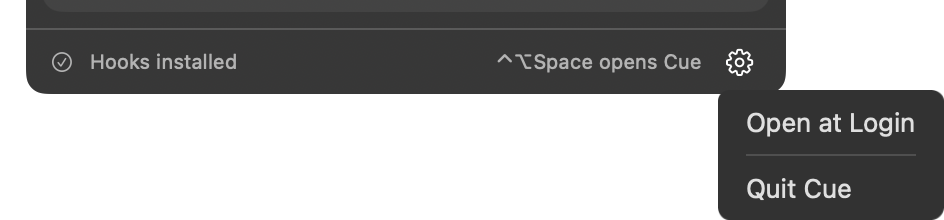
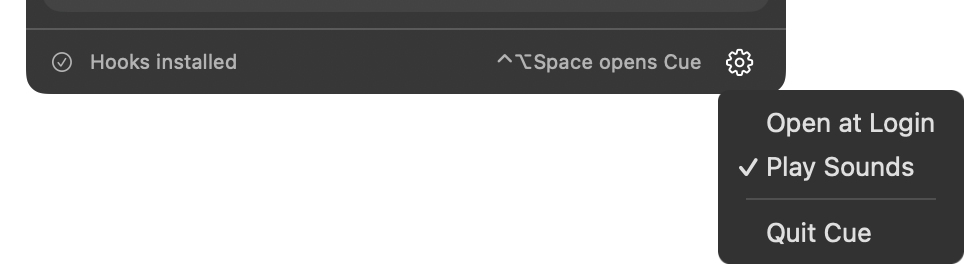
docs: describe the finish sounds and the Play Sounds toggle

diff --git a/docs/user-guide.md b/docs/user-guide.md
@@ -33,10 +33,10 @@ The header shows a count such as "2 waiting · 1 working". Each session is a rou
 - **Send**, and the **Open** arrow for Claude Code and Amp rows.
 - **A note** under the prompt box when something needs your attention. See [Row messages](#row-messages).
 
-The footer shows whether Cue's hooks are installed, a reminder of ⌃⌥Space, and a gear menu with **Open at Login** and **Quit Cue** (⌘Q). Cue opens at login unless you turn that off there.
+The footer shows whether Cue's hooks are installed, a reminder of ⌃⌥Space, and a gear menu with **Open at Login**, **Play Sounds** and **Quit Cue** (⌘Q). Cue opens at login and plays sounds unless you turn those off there.
 
 <p align="center">
-  <img src="images/gear-menu.png" width="440" alt="The footer's gear menu, open, with Open at Login and Quit Cue">
+  <img src="images/gear-menu.png" width="450" alt="The footer's gear menu, open, with Open at Login, Play Sounds checked, and Quit Cue">
 </p>
 
 Above the footer, an orange banner appears when Codex won't run Cue's hooks:
@@ -93,7 +93,9 @@ Cue posts a notification for every agent, in every terminal:
 
 Click one to open Cue on that session, scrolled to it with its reply expanded, and the cursor in its prompt box when it takes prompts. Each session keeps one notification, replaced by the next. Esc and interrupted turns stay quiet. While the popover is open, macOS shows no banner.
 
-The first time Cue starts, macOS asks whether it may send notifications: click Allow, or turn Cue on later in System Settings > Notifications. Change its sound or banner style there too; with the alert style set to None, Cue counts its notifications as off.
+Claude Code and Codex sessions also play the sounds Amp plays for its own threads: Submarine when a turn ends or stops, Ping when a session starts waiting on you. They play whether or not notifications are allowed, and during a Focus too, as Amp's do; turn them off with **Play Sounds** in the gear menu. Amp plays its own sounds, so Cue adds none for Amp, and Cue's banners stay silent.
+
+The first time Cue starts, macOS asks whether it may send notifications: click Allow, or turn Cue on later in System Settings > Notifications. Change its banner style there too; with the alert style set to None, Cue counts its notifications as off.
 
 When Cue is quit, or its notifications are off, Claude Code and Amp fall back to the terminal banner: iTerm2 shows "‹project› finished: ‹first line›", with notifications allowed for iTerm2. Inside tmux that banner doesn't arrive. Codex's own notifications (`notifications` under `[tui]` in `~/.codex/config.toml`) would double Cue's, so leave them off.
 
@@ -163,6 +165,8 @@ Cue is ad-hoc signed, so macOS treats each rebuild as a new app and asks for Aut
 
 **No notifications from Cue.** Check System Settings > Notifications > Cue. Notifications post for changes Cue sees while it runs; a turn that ended while Cue was quit doesn't notify later.
 
+**Two sounds when a Claude turn ends.** With Cue's notifications off, iTerm2 posts the fallback banner with its own sound, and Cue plays Submarine besides. Allow Cue's notifications, which turns that banner off, or turn off iTerm2's notification sound in System Settings > Notifications > iTerm2.
+
 **Open on a tmux row only brings iTerm2 forward.** Selecting the exact tab needs Cue's Automation permission for iTerm2, which macOS asks for again after each `./install.sh`. Allow it, or turn Cue on under System Settings > Privacy & Security > Automation.
 
 **Cue says Claude's input box isn't on screen, but you see it.** Cue keeps the screen it read in `~/.cue/unreadable-screen.txt`. Usually something covered the box for a moment (a menu, a dialog, a survey); send again. If it keeps happening, Claude Code may have changed its layout: check the kept screen with `CUE_SCREEN_FILE=~/.cue/unreadable-screen.txt swift test --filter LiveScreen` in the cue folder, and report it with that file.
@@ -174,7 +178,7 @@ Cue is ad-hoc signed, so macOS treats each rebuild as a new app and asks for Aut
 ## Limitations
 
 - Claude Code delivery works in iTerm2 tabs, and in tmux panes in any terminal. Other terminals without tmux are read only.
-- Cue's notifications need Cue running. Quit, Claude Code and Amp fall back to the terminal banner, which doesn't arrive inside tmux.
+- Cue's notifications and sounds need Cue running. Quit, Claude Code and Amp fall back to the terminal banner, which doesn't arrive inside tmux.
 - A multi-line draft taller than Claude's input box may not fully clear before Cue types.
 - Cue reads Claude Code's screen layout, so a Claude Code UI change can make sends refuse until Cue updates. It refuses rather than types blind. See [Development](development.md#when-an-agent-updates).
 - Codex rows have no Open, and a prompt sent to a Codex session whose terminal you closed runs in the background.

diff --git a/docs/architecture.md b/docs/architecture.md
@@ -188,6 +188,8 @@ The plugin checks each inbox file before trusting it: a name of the form `<uuid>
 
 The app posts notifications itself, for every agent and terminal. Each second, after it rereads the session files, `Notifier` compares each session with the last poll: a `finished_at` that moved posts "‹agent · project› finished" with the reply's first line ("stopped" for an API error), and a move into `needs_you` posts "needs you", and wins when both land in one poll. A session seen for the first time only sets the baseline, so starting Cue doesn't replay old turns. Each notification uses the session id as its identifier, so a newer one replaces the older, and a click opens the popover on that session.
 
+The same comparison plays a system sound for Claude and Codex, the one Amp plays for its own threads (its binary runs `afplay` on them): `Ping.aiff` when a session starts waiting on you, else `Submarine.aiff` when a turn ended, one sound per poll. `NSSound` needs no notification permission, so the sounds play with notifications off; Play Sounds in the gear menu (the `playSounds` default) turns them off. Amp plays its own, so `Agent.playsOwnSounds` leaves Amp sessions out, and the banners carry no sound.
+
 The terminal banner (OSC 9) stays as the fallback. While macOS lets Cue notify, Cue keeps its process id in `~/.cue/notifier.pid`; the Claude hook and the Amp plugin skip their banner while that process runs and is Cue, so a file left by a crash brings the banner back. Cue rechecks its permission every 10 seconds and when the popover opens, and releases the file when you turn its notifications off, set their alert style to None, or quit. Banners show while Cue is the active app too, except while the popover is open.
 
 Cue registers itself as a login item through `SMAppService` on its first launch. After that, the gear menu and System Settings decide, and the menu shows what macOS reports. Cue registers again at launch only when a reinstall left no registration and you never turned it off. `uninstall.sh` takes it out of your login items before deleting the app.
@@ -206,7 +208,7 @@ Two targets build one binary. `CueCore` imports Foundation only and holds everyt
 | Storage | `Store`, `Config`, `Proc` | Session files, the lock, install-time paths, process facts |
 | Reporting | `Hook` | Turns a hook event into a session file update |
 | Delivery | `Delivery`, `Terminal` (`ITermTab`, `TmuxPane`), `Codex`, `Inbox` | Sends a prompt through the session's agent; Claude's safety checks run once, on any `Terminal` |
-| Notifications | `Alert`, `NotifierFile` (CueCore); `Notifier` (app) | Which change notifies and what it says; who posts the banner |
+| Notifications | `Alert`, `NotifierFile` (CueCore); `Notifier` (app) | Which change notifies, what it says and which sound plays; who posts the banner |
 | App | `SessionMonitor`, `AppModel`, `Worker`, `LoginItem` | Polls the files and repairs rows; holds what the popover shows; runs blocking calls; the login item |
 | UI | `AppDelegate`, `PopoverView`, `RowView` | The menubar item, the popover, a row |
 

diff --git a/docs/development.md b/docs/development.md
@@ -9,7 +9,7 @@
 | `Sources/CueCore/Store.swift` | The session files, the lock, and `config.json` |
 | `Sources/CueCore/Proc.swift` | Process facts from `sysctl` |
 | `Sources/CueCore/Hook.swift` | Hook mode for Claude Code and Codex: event to status, the fallback banner |
-| `Sources/CueCore/Alert.swift` | Which session change notifies and what it says; the `notifier.pid` handshake |
+| `Sources/CueCore/Alert.swift` | Which session change notifies, what it says and which sound plays; the `notifier.pid` handshake |
 | `Sources/CueCore/Codex.swift` | `codex queue`, which Codex sessions are interactive, and the hook health check |
 | `Sources/CueCore/Delivery.swift` | Sending: the agent switch, Claude typing with its checks, `sanitize`, key chunks, `DeliveryError` |
 | `Sources/CueCore/Terminal.swift` | The `Terminal` protocol and its two terminals, `ITermTab` (AppleScript) and `TmuxPane` (tmux CLI) |
@@ -21,7 +21,7 @@
 | `Sources/cue/AppModel.swift` | The popover's state: sort order, one `RowState` per row, sending and confirmation |
 | `Sources/cue/Worker.swift` | A serial queue behind an async API, for blocking calls |
 | `Sources/cue/PopoverView.swift`, `RowView.swift` | The SwiftUI views |
-| `Sources/cue/Notifier.swift` | Posts notifications and opens the popover on a click |
+| `Sources/cue/Notifier.swift` | Plays sounds, posts notifications, and opens the popover on a click |
 | `Sources/cue/LoginItem.swift` | The login item, through `SMAppService` |
 | `Sources/cue/HotKey.swift` | The ⌃⌥Space global shortcut |
 | `Sources/cue/SendCommand.swift` | `cue send` (`cue open` and `codex-health` live in `main.swift`) |

diff --git a/README.md b/README.md
@@ -8,7 +8,7 @@
   <a href="https://github.com/haikelz/cue/actions/workflows/test.yml"><img src="https://github.com/haikelz/cue/actions/workflows/test.yml/badge.svg" alt="Tests"></a>
 </p>
 
-A macOS menubar app for people who run many coding agents at once. Cue lists your Claude Code, Codex and Amp sessions with their status and last reply, and you send any of them its next prompt without hunting for its terminal window. It notifies you when a session finishes or needs you, and ⌃⌥Space opens it from any app.
+A macOS menubar app for people who run many coding agents at once. Cue lists your Claude Code, Codex and Amp sessions with their status and last reply, and you send any of them its next prompt without hunting for its terminal window. It notifies you, with Amp's sounds, when a session finishes or needs you, and ⌃⌥Space opens it from any app.
 
 <p align="center">
   <img src="docs/images/popover.png" width="380" alt="Cue's popover with three sessions, each marked with its agent's logo: an idle Claude Code session with a prompt drafted in its text area, an idle Amp thread, and a working Codex session that queues prompts">
